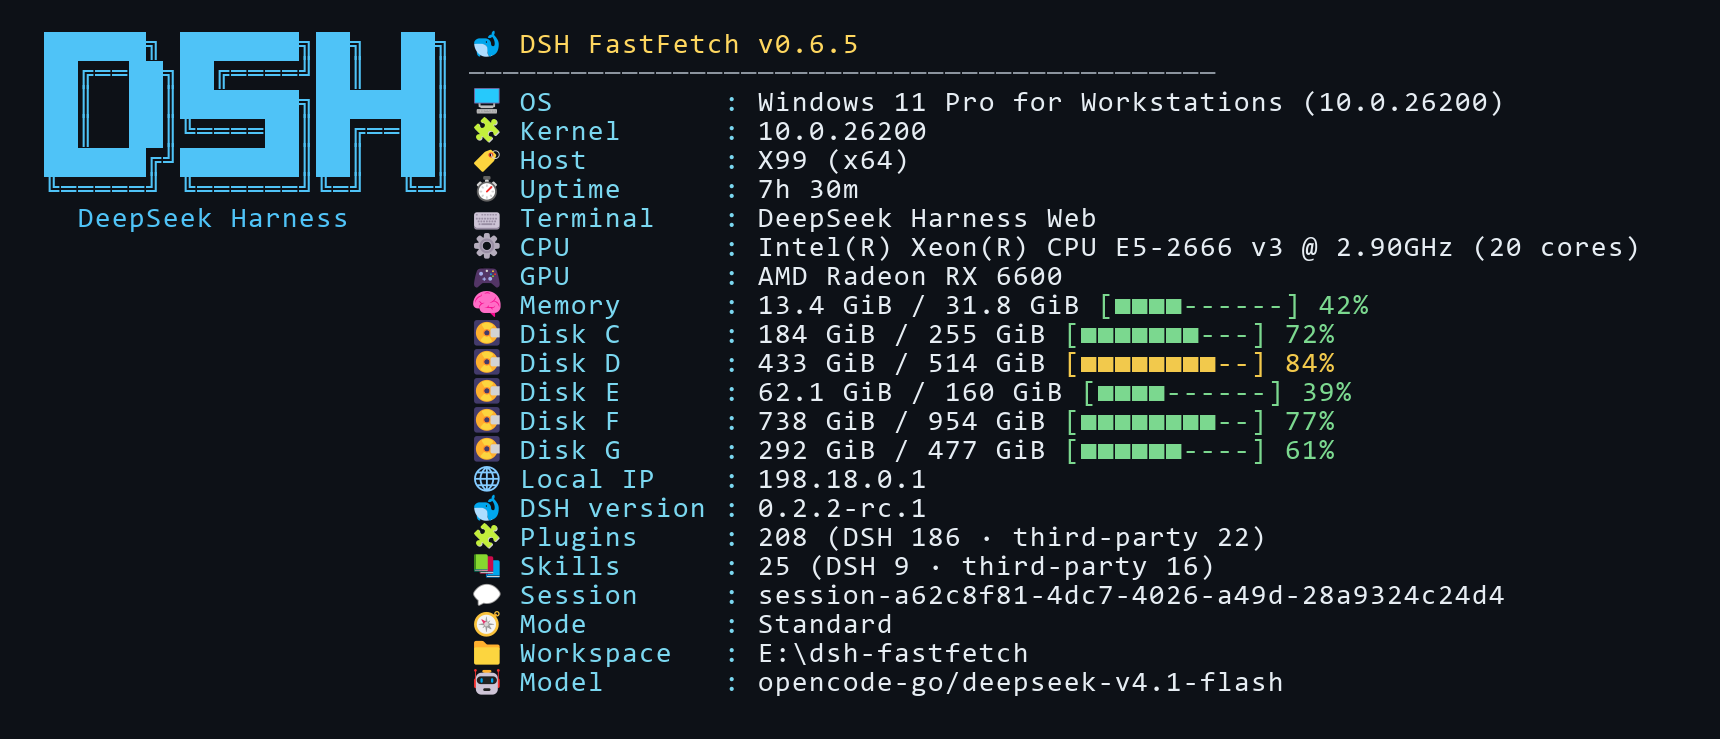
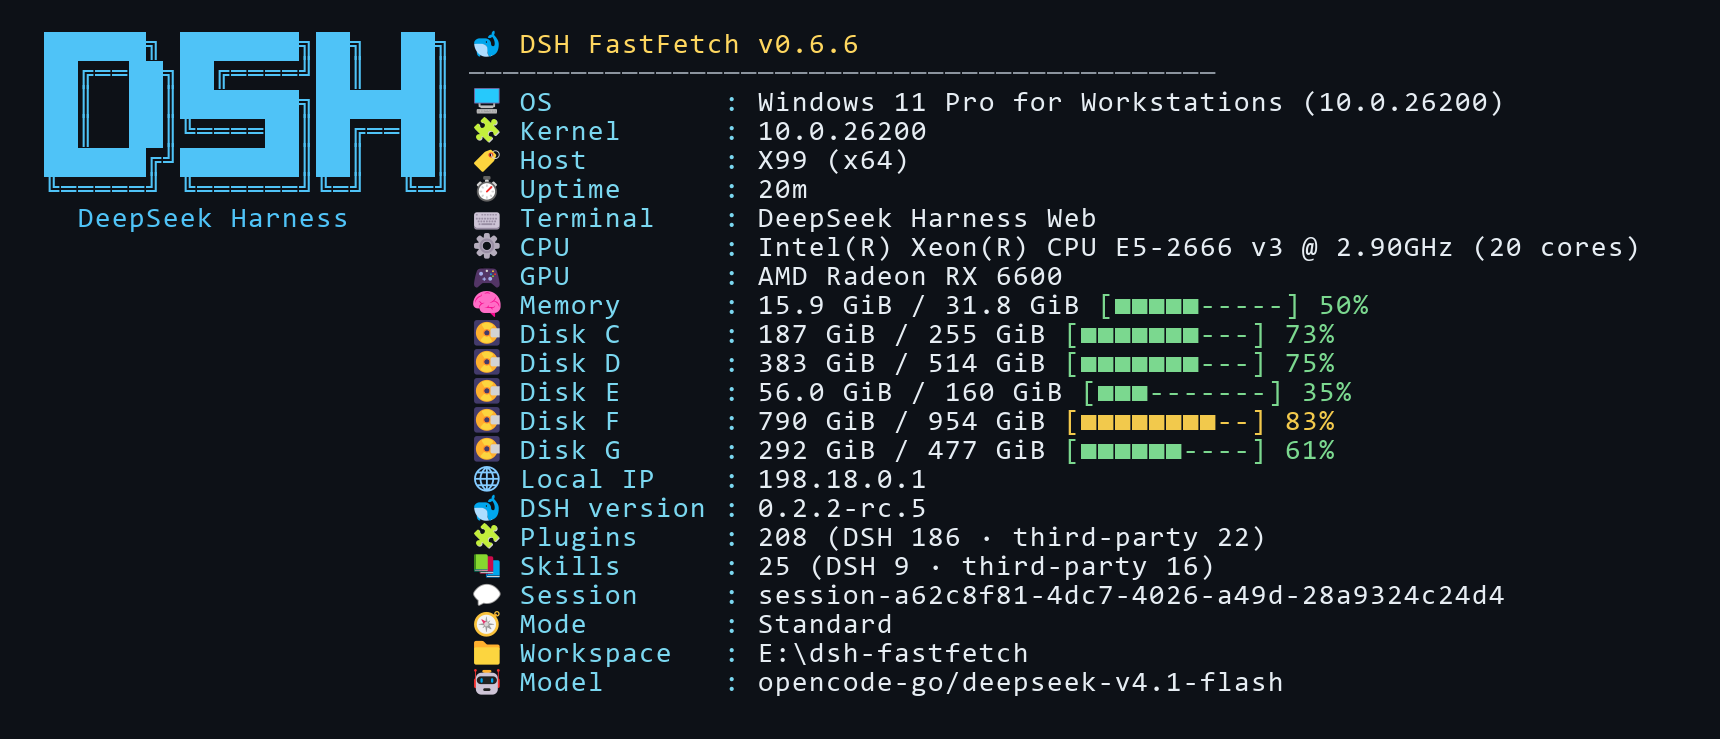
chore: release 0.6.6 verified against DSH 0.2.2-rc.5

diff --git a/src/config.js b/src/config.js
@@ -5,7 +5,7 @@
  * 类型校验和范围收敛。用户只写想覆盖的字段，其余取默认值。
  */
 
-export const PLUGIN_VERSION = '0.6.5'
+export const PLUGIN_VERSION = '0.6.6'
 
 export const DEFAULT_MODULES = [
   'title',

diff --git a/README.en.md b/README.en.md
@@ -137,7 +137,7 @@ Run `/fastfetch --list-modules` for the live list.
 
 | Item | Status |
 | --- | --- |
-| DSH | 0.2.2-rc.3 (working on rc.1 and up; plugin APIs checked unchanged in rc.2 and rc.3) |
+| DSH | 0.2.2-rc.5 (working on rc.1 and up; plugin APIs checked unchanged across rc.2 through rc.5) |
 | Windows | Verified on Windows 11 hardware |
 | Linux | Implemented, including distribution detection; **not verified on hardware** |
 | macOS | Implemented; **not verified on hardware** |

diff --git a/README.md b/README.md
@@ -137,7 +137,7 @@ dsh plugin --profile desktop add https://github.com/Niesc-F/dsh-fastfetch
 
 | 项目 | 状态 |
 | --- | --- |
-| DSH | 0.2.2-rc.3（rc.1 起实测可用，rc.2、rc.3 已核对插件 API 无变更） |
+| DSH | 0.2.2-rc.5（rc.1 起实测可用，rc.2 至 rc.5 已逐一核对插件 API 无变更） |
 | Windows | 已在 Windows 11 实机验证 |
 | Linux | 已实现（含各发行版识别），**未实机验证** |
 | macOS | 已实现，**未实机验证** |
